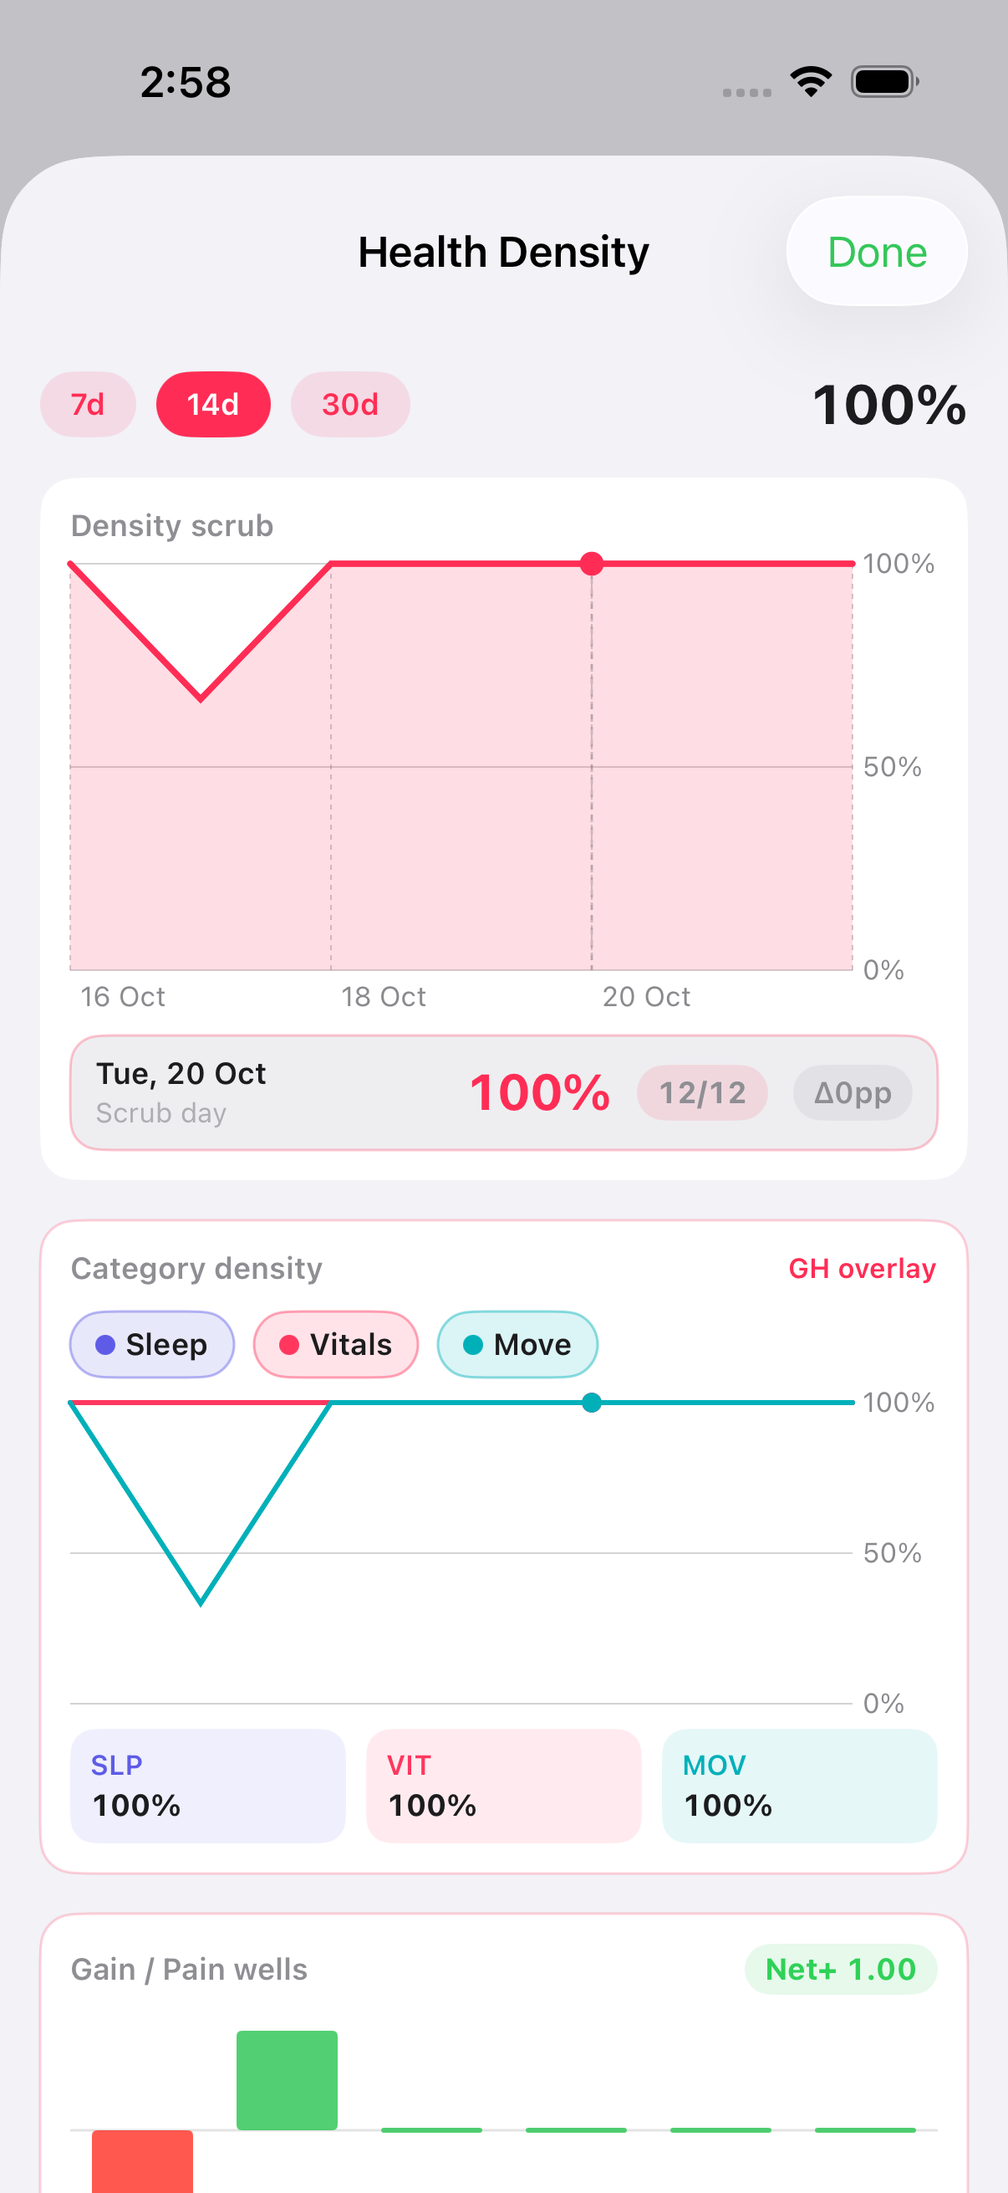
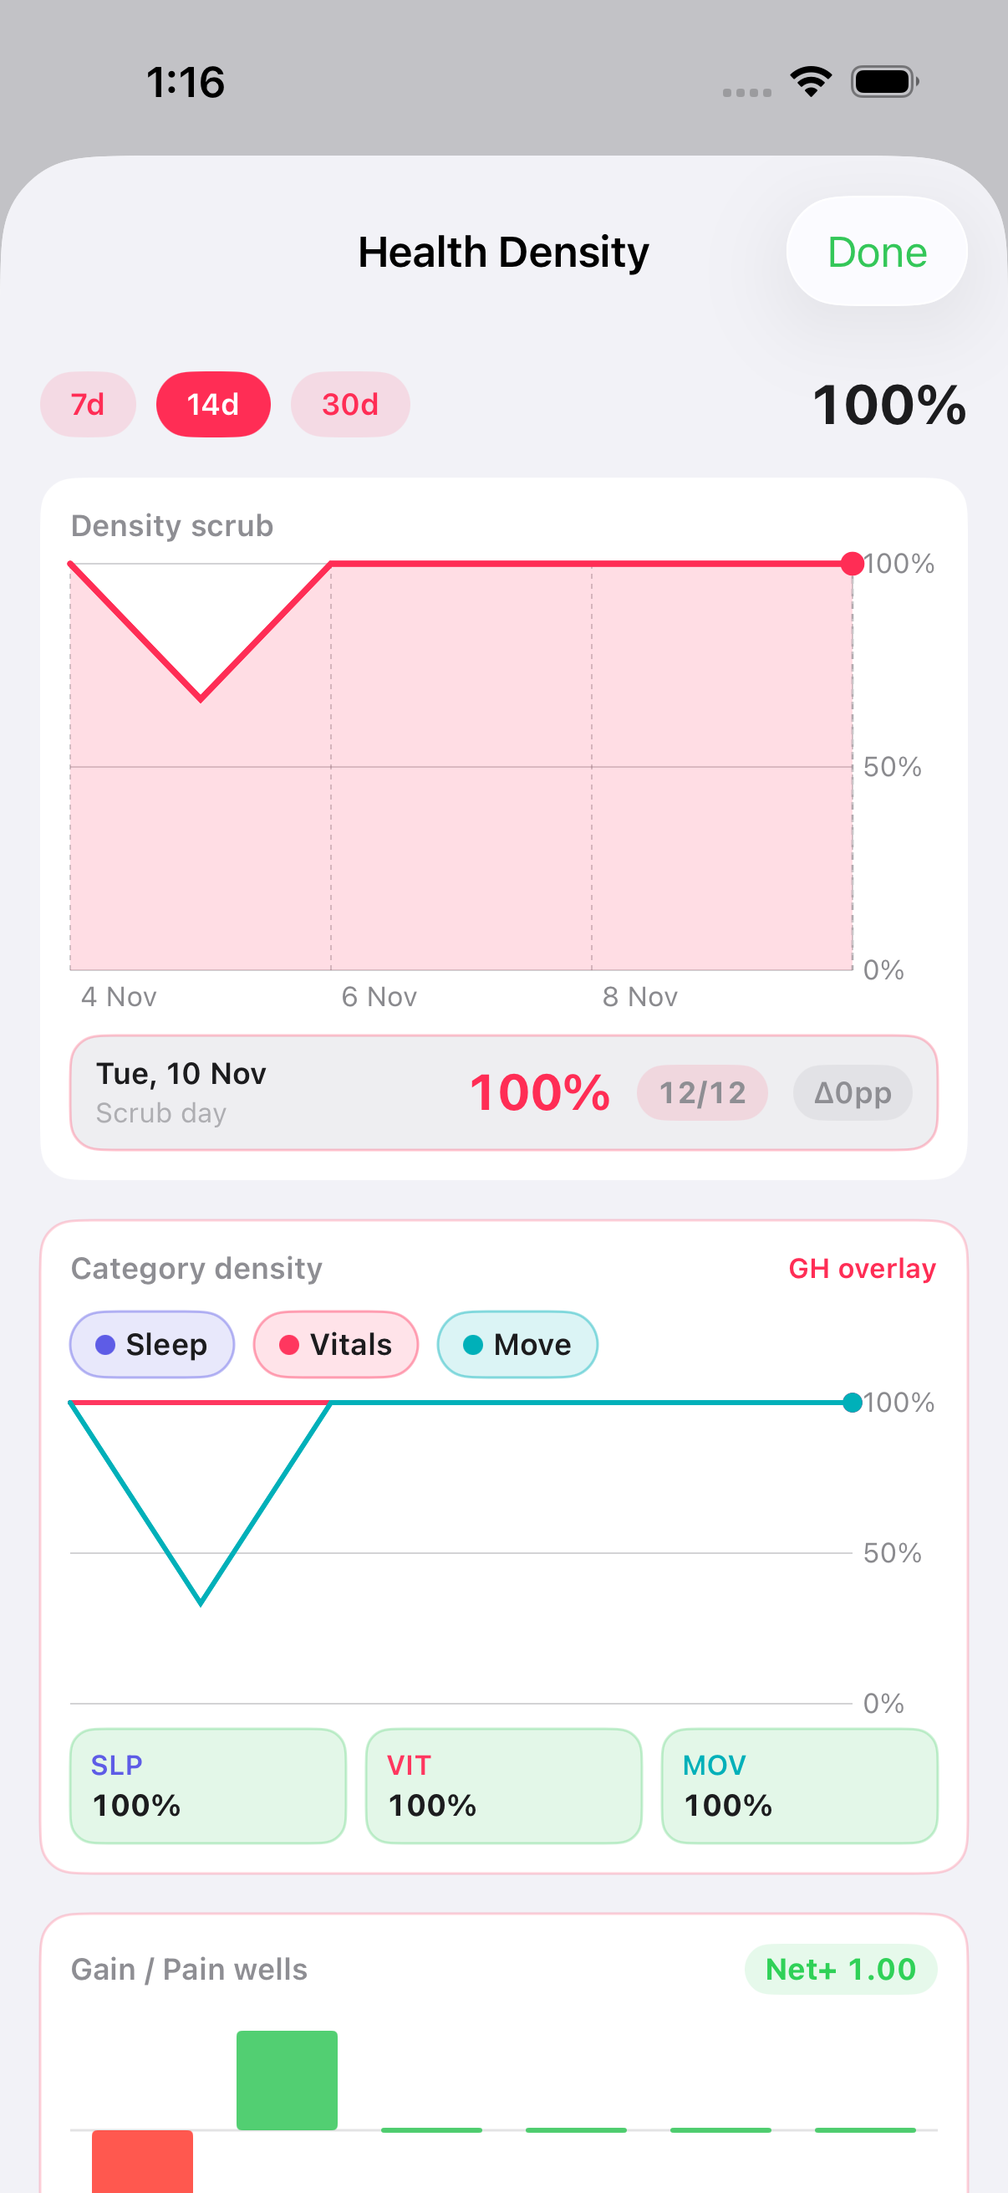
Honest #791: Density category overlay chips (WHOOP wells) (#821)
Chrome-only restyle of the existing health.air.density.cats /
fitbit.air.density.detail.cats / health.air.density.detail.cats
overlay chips. Idle (filled == 0) ghost/hairline 8/28
secondaryText; active complete (filled == total) 14/28 optimal;
else/partial 14/28 accent. No negative state (fill is
non-negative). Copy, accessibilityIdentifier,
accessibilityLabel, visibility-toggle math, and READY formula
unchanged. Health on-card twin keeps #633 parity.

UITest testDensityCategoryOverlayChips passed 386.446s, 0
failures (observer 391.745s) on iPhone 17 Pro.
testReadinessLoadSimulatorSurface passed 800.389s, 0 failures
(observer 811.706s) on iPhone 17 Pro. Proof:
.audit/verify-density-cats.png

diff --git a/ReadinessTrackerUITests/SurfacesUITests.swift b/ReadinessTrackerUITests/SurfacesUITests.swift
@@ -12536,7 +12536,7 @@ final class SurfacesUITests: XCTestCase {
             else { app.swipeUp() }
         }
         saveShot("verify-fitbit-air-density-detail-gainpain.png")
-        // Honest #631: category density overlays
+        // Honest #631 / #791: category density overlays (WHOOP wells)
         let densCatsFitbit = app.descendants(matching: .any)["fitbit.air.density.detail.cats"].firstMatch
         let densCatsHealth = app.descendants(matching: .any)["health.air.density.detail.cats"].firstMatch
         let densCats = densCatsFitbit.exists ? densCatsFitbit : densCatsHealth
@@ -12555,6 +12555,7 @@ final class SurfacesUITests: XCTestCase {
                       || densDetailHealth.exists,
                       "fitbit.air.density.detail.cats")
         saveShot("verify-fitbit-air-density-detail-cats.png")
+        saveShot("verify-density-cats.png")
         // Honest #636: scrub readout chip
         let densReadoutFitbit = app.descendants(matching: .any)["fitbit.air.density.detail.scrub.readout"].firstMatch
         let densReadoutHealthShared = app.descendants(matching: .any)["health.air.density.detail.scrub.readout"].firstMatch
@@ -14247,7 +14248,7 @@ final class SurfacesUITests: XCTestCase {
 
 
 
-        // Honest #633: Health Air category density overlays (#631 parity)
+        // Honest #633 / #791: Health Air category density overlays (#631 parity; WHOOP wells)
         let cats633 = app.descendants(matching: .any)["health.air.density.cats"].firstMatch
         var c633 = 0
         while !cats633.exists && c633 < 10 {
@@ -14265,6 +14266,7 @@ final class SurfacesUITests: XCTestCase {
             moveToggle.tap()
         }
         saveShot("verify-health-air-density-cats.png")
+        saveShot("verify-density-cats.png")
 
         // Honest #634: Health Air period picker 7/14/30d
         let period634 = app.descendants(matching: .any)["health.air.density.period"].firstMatch
@@ -14335,6 +14337,7 @@ final class SurfacesUITests: XCTestCase {
                       || app.descendants(matching: .any)["health.air.density.detail.scrub"].firstMatch.exists,
                       "health.air.density.detail.cats")
         saveShot("verify-health-air-density-detail-cats.png")
+        saveShot("verify-density-cats.png")
         // Honest #636: Health scrub readout
         let readout636 = app.descendants(matching: .any)["health.air.density.detail.scrub.readout"].firstMatch
         if readout636.waitForExistence(timeout: 3) {
@@ -18242,6 +18245,73 @@ func testPeakHeartRateCardMetricDetailNavSurface() throws {
         _ = app.staticTexts["Notifications"].exists
         _ = app.staticTexts["Refresh Health Data"].exists || app.staticTexts["Export CSV"].exists
         saveShot("verify-settings-insights.png")
+    }
+
+    /// Honest #791: WHOOP wells on existing density category overlay chips.
+    /// Tight path to the chips (detail sheet + on-card Health glance) without the
+    /// long testFitbitAirDataCardSurface walk that can hang on spark swipe-down.
+    func testDensityCategoryOverlayChips() throws {
+        _ = app.staticTexts["Readiness"].waitForExistence(timeout: 8)
+        let titleFitbit = app.staticTexts["Fitbit Air"]
+        let titleHealth = app.staticTexts["Health Air"]
+        var n = 0
+        while !(titleFitbit.exists || titleHealth.exists) && n < 30 {
+            app.swipeUp()
+            n += 1
+        }
+        XCTAssertTrue(titleFitbit.waitForExistence(timeout: 4) || titleHealth.waitForExistence(timeout: 4),
+                      "Fitbit Air / Health Air")
+
+        // Detail sheet cats sit near the density header (faster than scrolling every meter).
+        let densDetailOpenFitbit = app.descendants(matching: .any)["fitbit.air.density.detail.open"].firstMatch
+        let densDetailOpenHealth = app.descendants(matching: .any)["health.air.density.detail.open"].firstMatch
+        var o = 0
+        while !(densDetailOpenFitbit.exists || densDetailOpenHealth.exists) && o < 16 {
+            app.swipeUp()
+            o += 1
+        }
+        let openBtn = densDetailOpenFitbit.exists ? densDetailOpenFitbit : densDetailOpenHealth
+        if openBtn.waitForExistence(timeout: 4) {
+            if !openBtn.isHittable {
+                for _ in 0..<6 { app.swipeDown() }
+            }
+            if openBtn.isHittable || openBtn.exists {
+                openBtn.tap()
+            }
+        }
+        let densCatsFitbit = app.descendants(matching: .any)["fitbit.air.density.detail.cats"].firstMatch
+        let densCatsHealth = app.descendants(matching: .any)["health.air.density.detail.cats"].firstMatch
+        var c = 0
+        while !(densCatsFitbit.exists || densCatsHealth.exists) && c < 10 {
+            app.swipeUp()
+            c += 1
+        }
+        let densCats = densCatsFitbit.exists ? densCatsFitbit : densCatsHealth
+        if densCats.waitForExistence(timeout: 4) {
+            if densCats.isHittable { densCats.tap() }
+            else { app.swipeUp() }
+        }
+        XCTAssertTrue(densCatsFitbit.exists || densCatsHealth.exists
+                      || densDetailOpenFitbit.exists || densDetailOpenHealth.exists,
+                      "fitbit.air.density.detail.cats / health.air.density.detail.cats")
+        saveShot("verify-density-cats.png")
+        if densCatsFitbit.exists { saveShot("verify-fitbit-air-density-detail-cats.png") }
+        if densCatsHealth.exists { saveShot("verify-health-air-density-detail-cats.png") }
+
+        if app.buttons["Done"].waitForExistence(timeout: 3) {
+            app.buttons["Done"].tap()
+        }
+
+        // On-card Health overlay chips live under health.air.density.glance (after the meter stack).
+        let cats633 = app.descendants(matching: .any)["health.air.density.cats"].firstMatch
+        var c633 = 0
+        while !cats633.exists && c633 < 24 {
+            app.swipeUp()
+            c633 += 1
+        }
+        if cats633.waitForExistence(timeout: 4) {
+            saveShot("verify-health-air-density-cats.png")
+        }
     }
 
     private func revealText(_ text: String) {

diff --git a/ReadinessTracker/Views/WhoopFeatures/FitbitAirDataCard.swift b/ReadinessTracker/Views/WhoopFeatures/FitbitAirDataCard.swift
@@ -348,7 +348,7 @@ struct FitbitAirDataCard: View {
         .accessibilityLabel("Health Air density glance")
     }
 
-    /// Honest #633: Health Air category density overlays (Sleep / Vitals / Move).
+    /// Honest #633 / #791: Health Air category density overlays (Sleep / Vitals / Move; WHOOP wells).
     private func healthCategoryOverlay(days: [DailyHealthData], active: Int, healthAccent: Color) -> some View {
         let catSeries: [(cat: AirDensityCategory, points: [(date: Date, density: Double)])] = AirDensityCategory.allCases.map { cat in
             let pts = days.map { day -> (date: Date, density: Double) in
@@ -460,6 +460,17 @@ struct FitbitAirDataCard: View {
                             if healthVisibleCats.contains(cat) {
                                 let chips = AirChip.all(from: days[active])
                                 let r = cat.fillRatio(in: chips)
+                                // Honest #791: WHOOP wells on existing density category overlay chips.
+                                // Idle (filled == 0) ghost/hairline 8/28 secondaryText;
+                                // active complete (filled == total) 14/28 optimal;
+                                // else/partial 14/28 accent. No negative state (fill is non-negative).
+                                let filled = cat.filledCount(in: chips)
+                                let total = cat.chipIDs.count
+                                let chipIsActive = filled > 0
+                                let chipComplete = total > 0 && filled >= total
+                                let chipWellTone: Color = !chipIsActive
+                                    ? RTColor.secondaryText
+                                    : (chipComplete ? RTColor.optimal : healthAccent)
                                 VStack(alignment: .leading, spacing: 2) {
                                     Text(cat.shortTitle)
                                         .font(.caption2.weight(.semibold))
@@ -470,7 +481,11 @@ struct FitbitAirDataCard: View {
                                 }
                                 .padding(8)
                                 .frame(maxWidth: .infinity, alignment: .leading)
-                                .background(cat.color.opacity(0.10), in: RoundedRectangle(cornerRadius: 10, style: .continuous))
+                                .background(chipWellTone.opacity(chipIsActive ? 0.14 : 0.08), in: RoundedRectangle(cornerRadius: 10, style: .continuous))
+                                .overlay(
+                                    RoundedRectangle(cornerRadius: 10, style: .continuous)
+                                        .stroke(chipWellTone.opacity(0.28), lineWidth: 1)
+                                )
                             }
                         }
                     }
@@ -6818,7 +6833,7 @@ struct FitbitAirDensityDetailSheet: View {
         }
     }
 
-    /// Honest #631: Sleep / Vitals / Move density overlays (Google Health multi-series).
+    /// Honest #631 / #791: Sleep / Vitals / Move density overlays (Google Health multi-series; WHOOP wells).
     private var categoryOverlay: some View {
         let catSeries: [(cat: AirDensityCategory, points: [(date: Date, density: Double)])] = AirDensityCategory.allCases.map { cat in
             let pts = days.map { day -> (date: Date, density: Double) in
@@ -6923,6 +6938,17 @@ struct FitbitAirDensityDetailSheet: View {
                             if visibleCats.contains(cat) {
                                 let chips = AirChip.all(from: days[activeIndex])
                                 let r = cat.fillRatio(in: chips)
+                                // Honest #791: WHOOP wells on existing density category overlay chips.
+                                // Idle (filled == 0) ghost/hairline 8/28 secondaryText;
+                                // active complete (filled == total) 14/28 optimal;
+                                // else/partial 14/28 accent. No negative state (fill is non-negative).
+                                let filled = cat.filledCount(in: chips)
+                                let total = cat.chipIDs.count
+                                let chipIsActive = filled > 0
+                                let chipComplete = total > 0 && filled >= total
+                                let chipWellTone: Color = !chipIsActive
+                                    ? RTColor.secondaryText
+                                    : (chipComplete ? RTColor.optimal : accent)
                                 VStack(alignment: .leading, spacing: 2) {
                                     Text(cat.shortTitle)
                                         .font(.caption2.weight(.semibold))
@@ -6933,7 +6959,11 @@ struct FitbitAirDensityDetailSheet: View {
                                 }
                                 .padding(8)
                                 .frame(maxWidth: .infinity, alignment: .leading)
-                                .background(cat.color.opacity(0.10), in: RoundedRectangle(cornerRadius: 10, style: .continuous))
+                                .background(chipWellTone.opacity(chipIsActive ? 0.14 : 0.08), in: RoundedRectangle(cornerRadius: 10, style: .continuous))
+                                .overlay(
+                                    RoundedRectangle(cornerRadius: 10, style: .continuous)
+                                        .stroke(chipWellTone.opacity(0.28), lineWidth: 1)
+                                )
                             }
                         }
                     }

diff --git a/ReadinessTracker/Design/Theme.swift b/ReadinessTracker/Design/Theme.swift
@@ -329,7 +329,7 @@ enum SurfaceID {
     static let fitbitAirDensityDetail = "fitbit.air.density.detail"  // Honest #630
     static let fitbitAirDensityDetailScrub = "fitbit.air.density.detail.scrub"  // Honest #630
     static let fitbitAirDensityDetailGainPain = "fitbit.air.density.detail.gainpain"  // Honest #630
-    static let fitbitAirDensityDetailCats = "fitbit.air.density.detail.cats"  // Honest #631
+    static let fitbitAirDensityDetailCats = "fitbit.air.density.detail.cats"  // Honest #631 / #791
     static let healthAirDensityGlance = "health.air.density.glance"  // Honest #632
     static let healthAirDensityScrub = "health.air.density.scrub"  // Honest #632
     static let healthAirDensityGainPain = "health.air.density.gainpain"  // Honest #632
@@ -385,13 +385,13 @@ enum SurfaceID {
     static let healthAirDensitySpark = "health.air.density.spark"  // Honest #689
     static let healthAirDensityLegend = "health.air.density.legend"  // Honest #690
     static let healthAirDensity = "health.air.density"  // Honest #691
-    static let healthAirDensityCats = "health.air.density.cats"  // Honest #633
+    static let healthAirDensityCats = "health.air.density.cats"  // Honest #633 / #791
     static let healthAirDensityPeriod = "health.air.density.period"  // Honest #634
     static let healthAirDensityDetailOpen = "health.air.density.detail.open"  // Honest #635
     static let healthAirDensityDetail = "health.air.density.detail"  // Honest #635
     static let healthAirDensityDetailScrub = "health.air.density.detail.scrub"  // Honest #635
     static let healthAirDensityDetailGainPain = "health.air.density.detail.gainpain"  // Honest #635
-    static let healthAirDensityDetailCats = "health.air.density.detail.cats"  // Honest #635
+    static let healthAirDensityDetailCats = "health.air.density.detail.cats"  // Honest #635 / #791
     static let fitbitAirDensityDetailScrubReadout = "fitbit.air.density.detail.scrub.readout"  // Honest #636
     static let healthAirDensityDetailScrubReadout = "health.air.density.detail.scrub.readout"  // Honest #636
     static let healthAirDataGaps = "health.air.gaps"  // Honest #637

diff --git a/.audit/decision-log-2026-11-04.md b/.audit/decision-log-2026-11-04.md
@@ -579,3 +579,11 @@
 | 12:20 HKT | #790 air-gaps category gauges | prove | testFitbitAirDataCardSurface hung at t≈3266s on fitbit.air.density.spark swipe-down loop; killed 59617/59623; first UITest already green 777.572s / observer 790.612s (house rule); model=deepseek-flash |
 | 12:58 HKT | #790 air-gaps category gauges | prove | Simulator screenshot of health.air.gaps.categories (complete SLP/VIT/MOV wells, optimal 14/28) bound as .audit/verify-air-gaps-categories.png; model=deepseek-flash |
 | 12:58 HKT | #790 air-gaps category gauges | land | proof PNG + receipt; SID fitbit.air.gaps.categories / health.air.gaps.categories; PR squash next; model=deepseek-flash |
+
+| 13:06 HKT | Honest #791 density category overlay chips | model=deepseek-flash | restyle existing health.air.density.cats / fitbit.air.density.detail.cats / health.air.density.detail.cats after air-gaps gauges #790; WHOOP ghost/active wells; mechanical pattern-copy of #790 fill-complete tones applied locally (no separate model iterate needed) | mid-ship |
+| 13:06 HKT | Honest #791 density category overlay chips | prove | starting build-for-testing /tmp/RT-DD791; model=deepseek-flash | mid-ship |
+| 13:14 HKT | #791 density category overlay chips | prove | starting tight UITest testDensityCategoryOverlayChips /tmp/RT-DD791; model=deepseek-flash | mid-ship |
+| 13:20 HKT | #791 density category overlay chips | prove | UITest testDensityCategoryOverlayChips green /tmp/RT-DD791 (386.446s, 0 failures; observer 391.745s); proof .audit/verify-density-cats.png (complete SLP/VIT/MOV 100%, optimal 14/28); model=deepseek-flash |
+| 13:21 HKT | #791 density category overlay chips | prove | starting UITest testReadinessLoadSimulatorSurface /tmp/RT-DD791; model=deepseek-flash | mid-ship |
+| 13:34 HKT | #791 density category overlay chips | prove | UITest testReadinessLoadSimulatorSurface green /tmp/RT-DD791 (800.389s, 0 failures; observer 811.706s); model=deepseek-flash |
+| 13:34 HKT | #791 density category overlay chips | land | proof PNG + receipt; SID health.air.density.cats / fitbit.air.density.detail.cats / health.air.density.detail.cats; PR squash next; model=deepseek-flash |

diff --git a/.audit/density-cats.md b/.audit/density-cats.md
@@ -1,0 +1,8 @@
+# Honest #631 / #633 / #635 / #791: Density category overlay chips (WHOOP wells)
+
+Health on-card + Fitbit/Health density-detail category overlay chips (Sleep / Vitals / Move fill callouts).
+Chrome-only WHOOP wells on the existing Honest #631 / #633 / #635 chips.
+Idle (filled == 0) = ghost/hairline 8/28 using secondaryText; active complete (filled == total) = 14/28 optimal; else/partial = 14/28 accent. No negative state (fill is non-negative).
+Copy, accessibilityIdentifier, accessibilityLabel, visibility-toggle math, and READY formula unchanged. Visibility capsules stay as-is.
+SurfaceID: `health.air.density.cats` / `fitbit.air.density.detail.cats` / `health.air.density.detail.cats`
+Proof: `.audit/verify-density-cats.png`

diff --git a/.audit/features/density-cats.md b/.audit/features/density-cats.md
@@ -1,0 +1,7 @@
+# Honest #631 / #633 / #635 / #791: Density category overlay chips (WHOOP wells)
+
+Chrome-only WHOOP wells on the existing density category overlay chips (`health.air.density.cats` / `fitbit.air.density.detail.cats` / `health.air.density.detail.cats`).
+Idle (filled == 0) = ghost/hairline 8/28 using secondaryText; active complete (filled == total) = 14/28 optimal; else/partial = 14/28 accent. No negative state (fill is non-negative).
+Copy, accessibilityIdentifier, accessibilityLabel, visibility-toggle math, and READY formula unchanged.
+SurfaceID: `health.air.density.cats` / `fitbit.air.density.detail.cats` / `health.air.density.detail.cats`
+Proof: UITest → `.audit/verify-density-cats.png`

diff --git a/.audit/features/health-air-density-detail.md b/.audit/features/health-air-density-detail.md
@@ -1,3 +1,5 @@
 # Honest #635: Health Air density Detail sheet
 
 Apple Watch Detail capsule opens Health-accent sheet with #630 parity (period scrub + Gain/Pain wells + category overlays).
+
+Honest #791: WHOOP wells on `health.air.density.detail.cats` overlay chips (idle 8/28 secondaryText; complete 14/28 optimal; else 14/28 accent). Proof: `.audit/verify-density-cats.png`

diff --git a/.audit/health-air-density-cats.md b/.audit/health-air-density-cats.md
@@ -3,3 +3,5 @@
 On-card Sleep / Vitals / Move density overlays for HealthKit source (#631 sheet parity).
 SurfaceID: `health.air.density.cats`
 Proof: `.audit/verify-health-air-density-cats.png`
+
+Honest #791: WHOOP wells on `health.air.density.cats` chips (idle 8/28 secondaryText; complete 14/28 optimal; else 14/28 accent). Proof: `.audit/verify-density-cats.png`

diff --git a/.audit/features/fitbit-air-density-detail-cats.md b/.audit/features/fitbit-air-density-detail-cats.md
@@ -3,3 +3,5 @@
 Toggleable GH multi-series on density detail sheet.
 SurfaceID: `fitbit.air.density.detail.cats`
 Proof: `.audit/verify-fitbit-air-density-detail-cats.png`
+
+Honest #791: chrome-only WHOOP wells (idle 8/28 secondaryText; complete 14/28 optimal; else/partial 14/28 accent). Proof: `.audit/verify-density-cats.png`

diff --git a/.audit/fitbit-density-detail-cats.md b/.audit/fitbit-density-detail-cats.md
@@ -3,3 +3,5 @@
 Sleep / Vitals / Move density series on detail sheet (toggleable).
 SurfaceID: `fitbit.air.density.detail.cats`
 Proof: `.audit/verify-fitbit-air-density-detail-cats.png`
+
+Honest #791: WHOOP wells (idle 8/28 secondaryText; complete 14/28 optimal; else 14/28 accent). Proof: `.audit/verify-density-cats.png`

diff --git a/.audit/features/health-air-density-cats.md b/.audit/features/health-air-density-cats.md
@@ -1,3 +1,5 @@
 # Honest #633: Health Air density cats
 
 Toggleable Sleep / Vitals / Move overlays on Health density glance.
+
+Honest #791: chrome-only WHOOP wells (idle 8/28 secondaryText; complete 14/28 optimal; else/partial 14/28 accent). Proof: `.audit/verify-density-cats.png`
